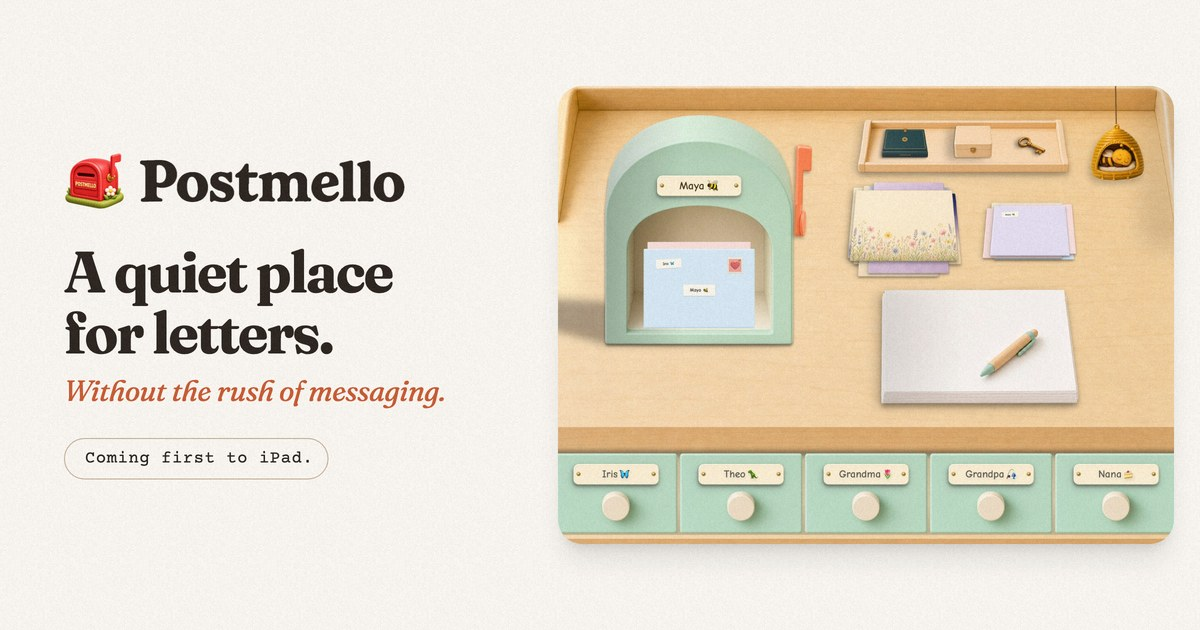
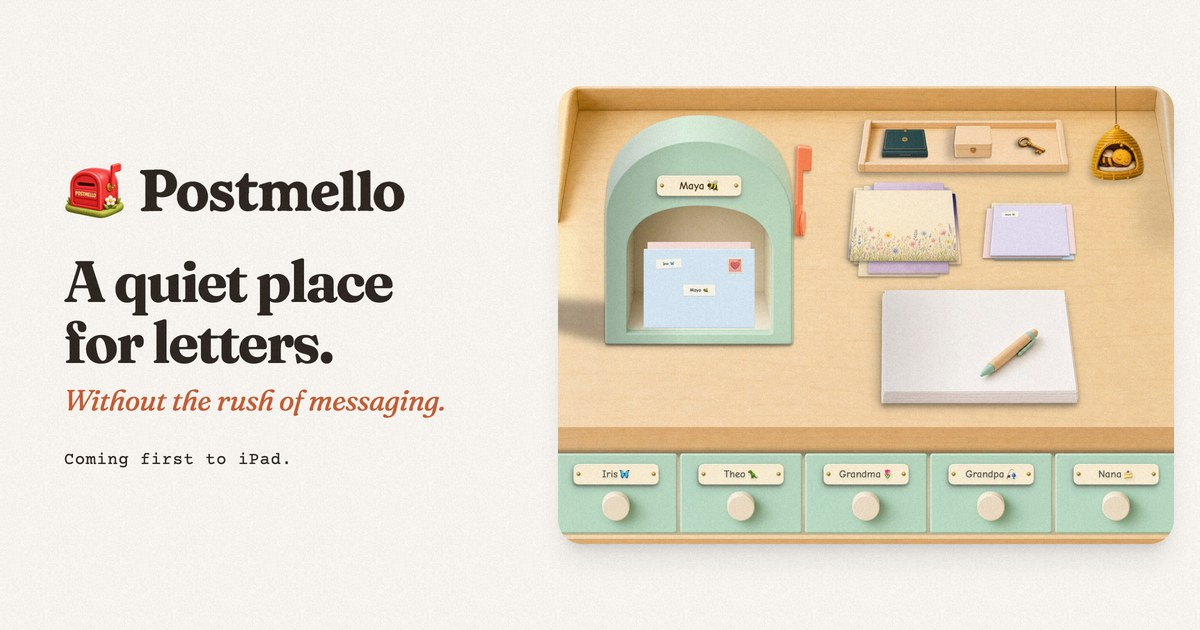
The share card's badge matches the page's footnote
The pill came off the hero an hour ago and the card kept its own on the
argument that it had no buttons to be mistaken for. True, but it left one line
wearing two costumes, and the box was also the thing that made monospace look
off-centre - the optical-padding compensation from the previous commit was
treating the symptom. No box: no compensation, no drift, one treatment on both
surfaces.

Left-aligned like everything else in the card's column, so the left edge now
reads as one stack: mark, headline, aside, footnote. ink-700 rather than the
page's ink-600, because cards get shrunk aggressively in feeds and the lighter
meta ink is the first thing to wash out - checked at 400px.

Changed region(s): [[0.0308, 0.3921, 0.37, 0.6635], [0.0308, 0.2413, 0.3392, 0.3619], [0.0617, 0.6937, 0.2775, 0.7841]]

diff --git a/scripts/og-card.html b/scripts/og-card.html
@@ -107,22 +107,20 @@
       color: var(--terracotta-600);
       margin-bottom: 30px;
     }
-    /* Darker than the page's own pill, on purpose. At full size the lighter
-       treatment was the elegant one; social cards get shrunk aggressively and
-       it was the first thing to wash out. Body ink and a border a step past
-       --line, which is as far as it can go before it starts competing with
-       the headline. */
+    /* The PAGE'S footnote treatment, matched here after the pill came off the
+       hero (Patrick, 2026-08-23): plain Courier Prime, no box. The pill's whole
+       remaining defence on this card was that there were no buttons to be
+       mistaken for - true, but two treatments of one line is drift, and the
+       box was also what made monospace look off-centre (a full stop is a dot
+       in an empty cell; letter-spacing trails the last glyph). No box, no
+       optical problem, one treatment everywhere.
+       ink-700 rather than the page's ink-600: cards get shrunk aggressively
+       in feeds, and the lighter meta ink was the first thing to wash out. */
     .badge {
       display: inline-block;
       font-family: var(--font-mono);
       font-weight: 400; font-size: 17px; letter-spacing: 0.04em;
       color: var(--ink-700);
-      border: 1px solid #C7AF98; border-radius: 999px;
-      /* Right padding is 6px SHORTER on purpose. Courier Prime is monospace:
-         the trailing full stop is a dot in a full-width cell (~10px at 17px)
-         and letter-spacing trails the last glyph too, so symmetric padding
-         reads as text shoved left. This evens the OPTICAL margins. */
-      padding: 10px 14px 10px 20px;
     }
     /* NO DEVICE FRAME (Patrick, 2026-08-23). The bezel was doing one job -
        saying "this is an app" - and charging the card a lot of its width for
